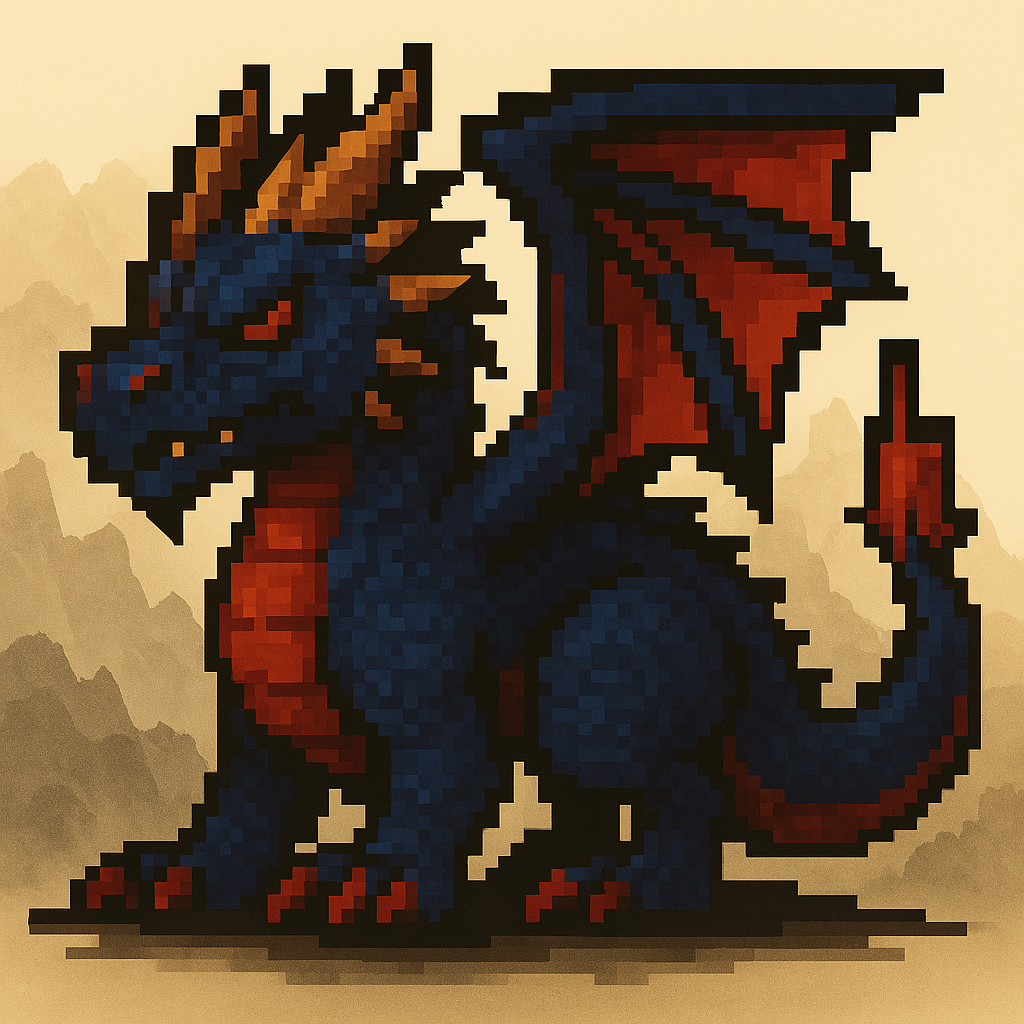
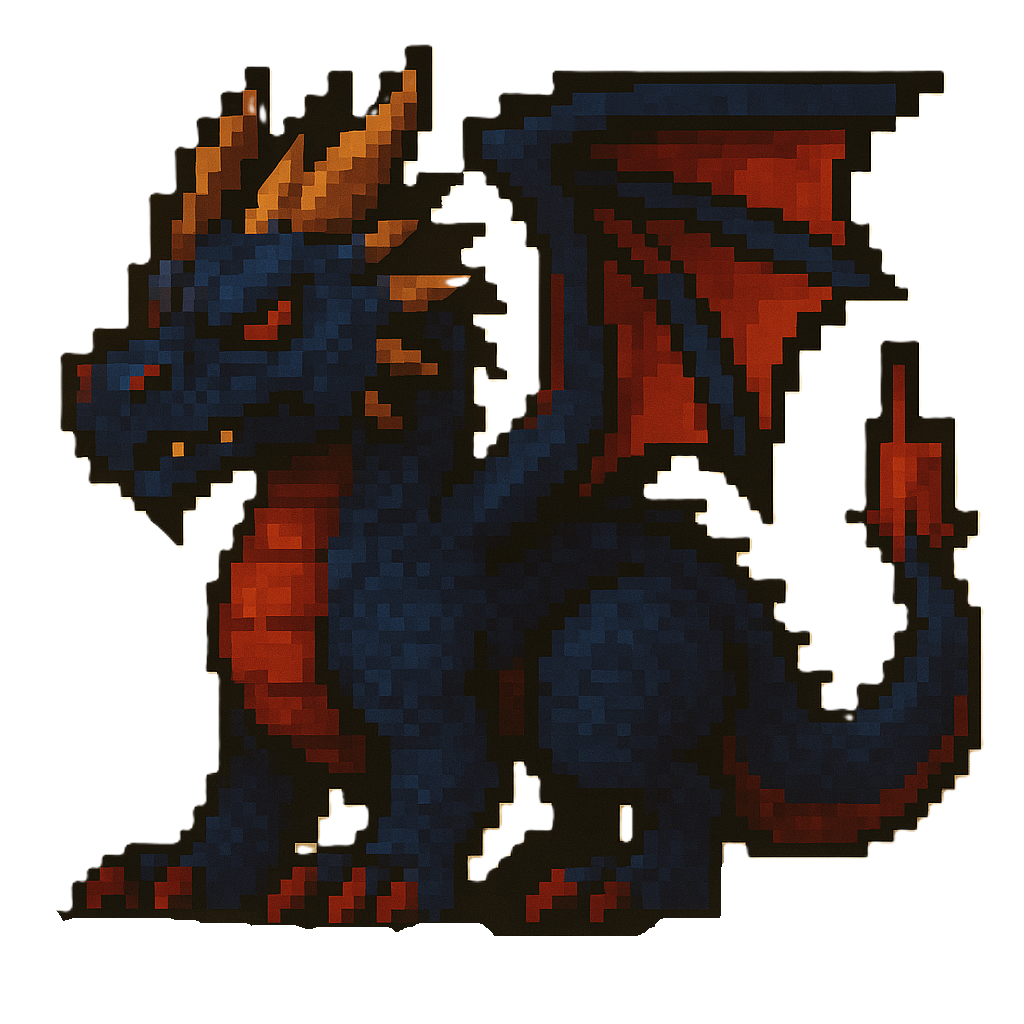
deploy: 2891de47ece38ae9eef24ca2f606cd8a682cb676

diff --git a/version.js b/version.js
@@ -1,1 +1,1 @@
-window.APP_VERSION = { msg: `Ajuste bug nas moedas`, hash: '4d62bcd', date: '2025-06-12 08:45:12' };
+window.APP_VERSION = { msg: `Imagens sem fundo dos inimigos`, hash: '2891de4', date: '2025-06-12 18:31:43' };
